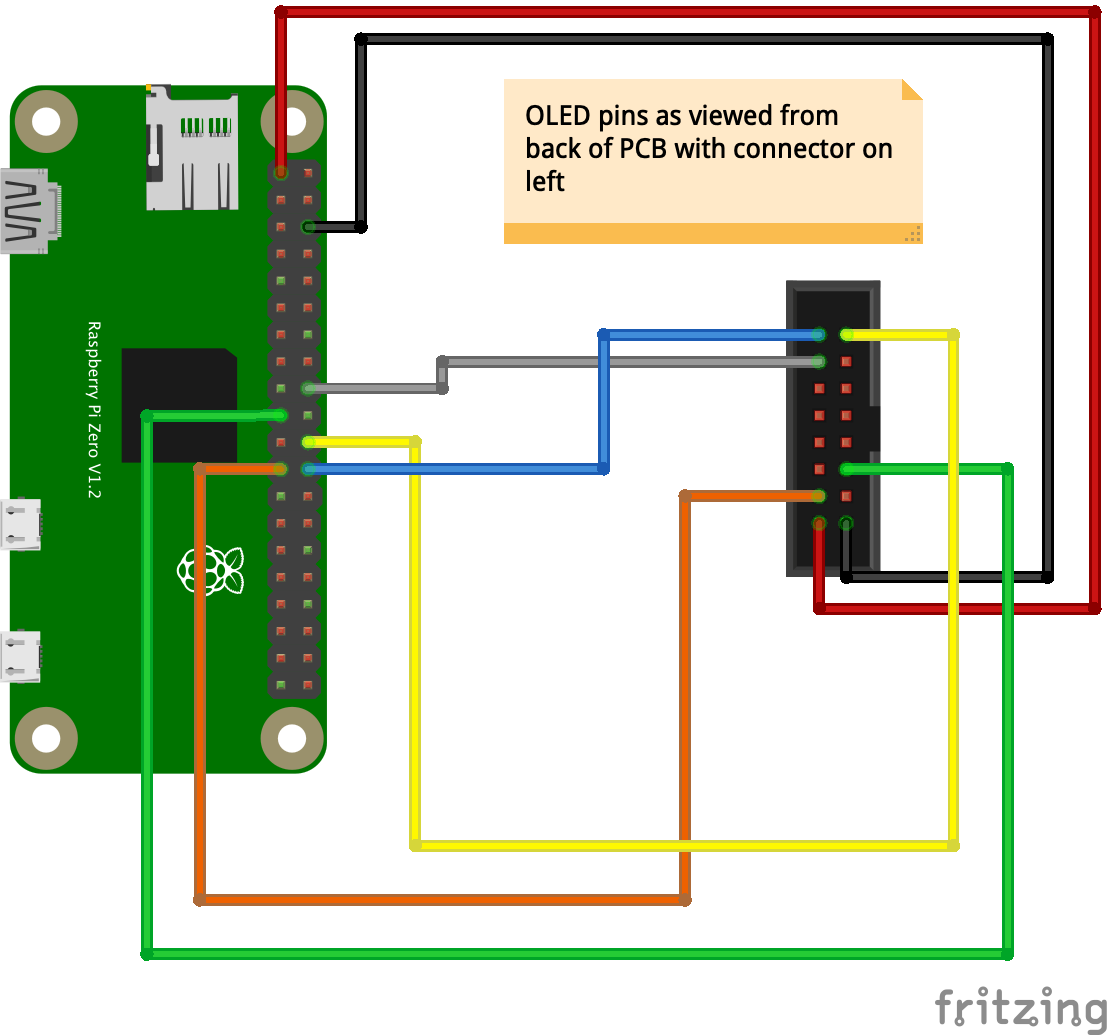
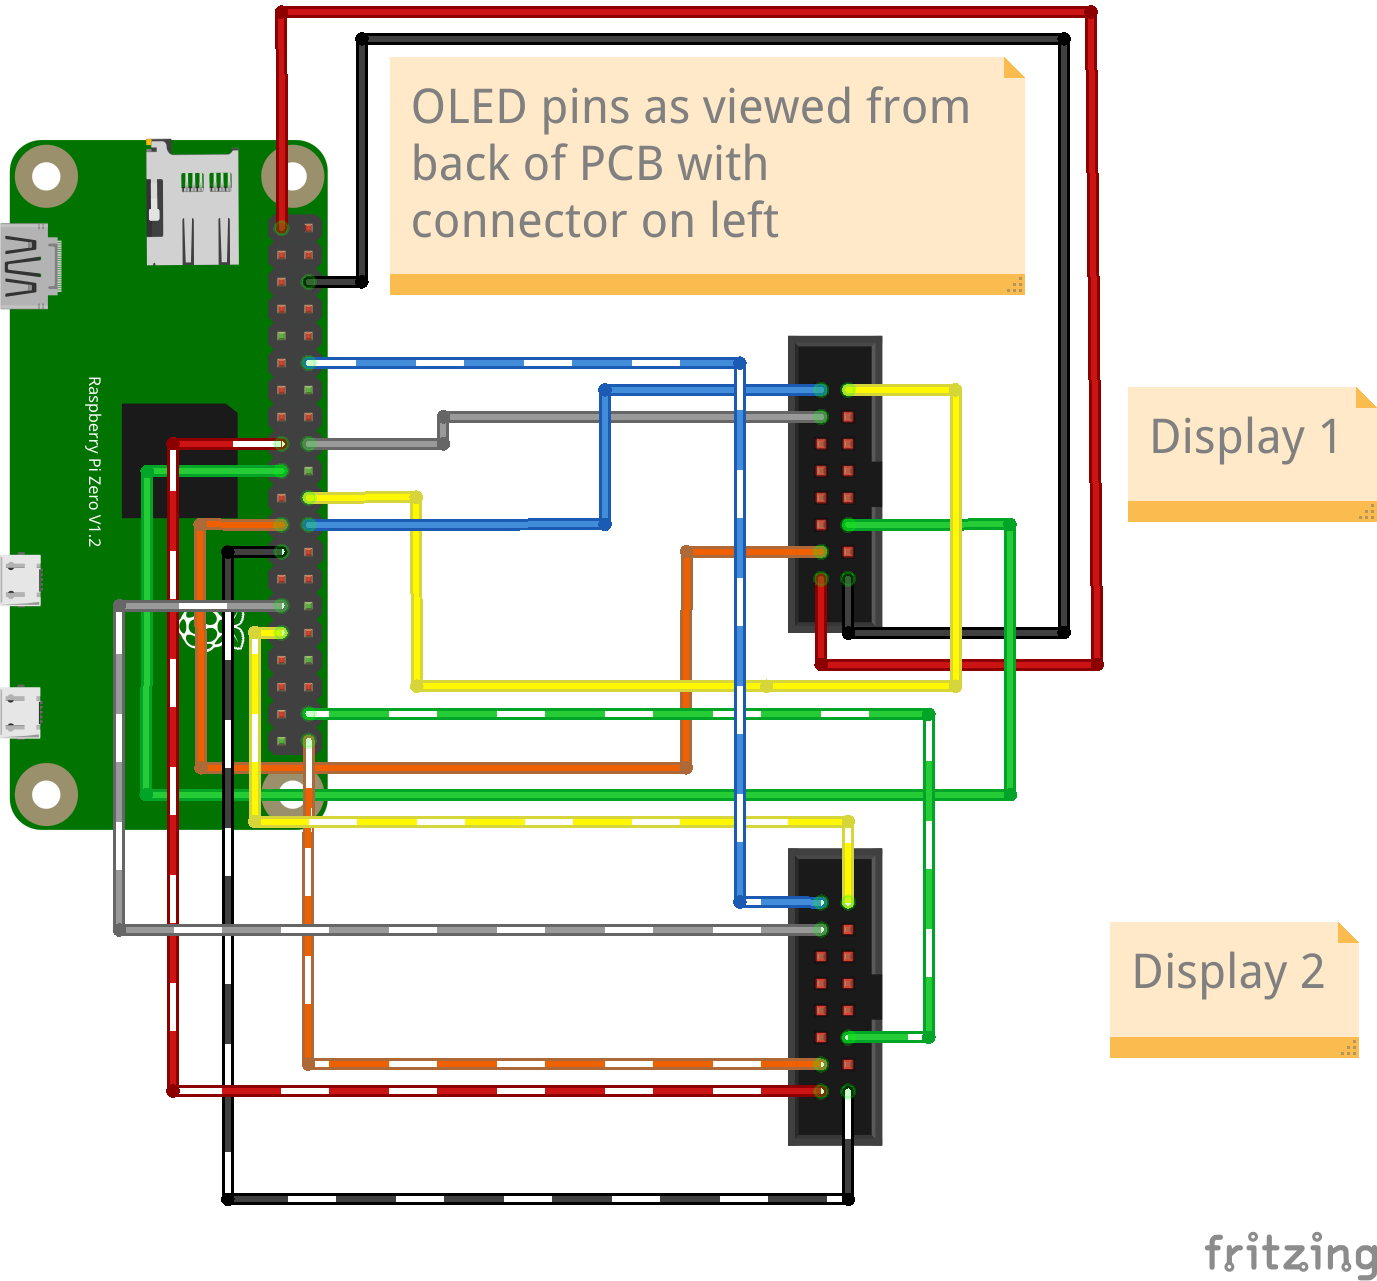
Add option for multi screen support
Previously there was only support for a single screen. As I live at a
two platform station and the Pi supports a pair of SPI busses it makes
sense to enable the possibility of running a pair of screens,

diff --git a/src/main.py b/src/main.py
@@ -73,7 +73,7 @@ def renderPlatform(departure):
 
 
 def renderCallingAt(draw, width, height):
-    stations = "Calling at:"
+    stations = "Calling at: "
     draw.text((0, 0), text=stations, font=font, fill="yellow")
 
 
@@ -150,13 +150,18 @@ def renderDots(draw, width, height):
     draw.text((0, 0), text=text, font=fontBold, fill="yellow")
 
 
-def loadData(apiConfig, journeyConfig):
+def loadData(apiConfig, journeyConfig, config):
     runHours = [int(x) for x in apiConfig['operatingHours'].split('-')]
     if isRun(runHours[0], runHours[1]) == False:
         return False, False, journeyConfig['outOfHoursName']
 
+    if config['dualScreen'] == True:
+        rows = "6"
+    else:
+        rows = "3"
+
     departures, stationName = loadDeparturesForStation(
-        journeyConfig, apiConfig["apiKey"])
+        journeyConfig, apiConfig["apiKey"], rows)
 
     if (departures == None):
         return False, False, stationName
@@ -217,6 +222,23 @@ def drawBlankSignage(device, width, height, departureStation):
 
     return virtualViewport
 
+def platform_filter(departureData, platformNumber, nextStations, station):
+    platformDepartures = []
+    for sub in departureData:
+        if platformNumber == "":
+            platformDepartures.append(sub)
+        elif sub.get('platform') is not None:
+            if sub['platform'] == platformNumber:
+                res = sub
+                platformDepartures.append(res)
+
+    if (len(platformDepartures) > 0):
+        firstDepartureDestinations = platformDepartures[0]["calling_at_list"]
+        platformData = platformDepartures, firstDepartureDestinations, station
+    else:
+        platformData = platformDepartures, "", station
+
+    return platformData
 
 def drawSignage(device, width, height, data):
     global stationRenderCount, pauseCount
@@ -224,7 +246,7 @@ def drawSignage(device, width, height, data):
     virtualViewport = viewport(device, width=width, height=height)
 
     status = "Exp 00:00"
-    callingAt = "Calling at:"
+    callingAt = "Calling at: "
 
     departures, firstDepartureDestinations, departureStation = data
 
@@ -238,6 +260,10 @@ def drawSignage(device, width, height, data):
     with canvas(device) as draw:
         w, h = draw.textsize(status, font)
         pw, ph = draw.textsize("Plat 88", font)
+
+    if(len(departures) == 0):
+        noTrains = drawBlankSignage(device, width=width, height=height, departureStation=departureStation)
+        return noTrains
 
     rowOneA = snapshot(
         width - w - pw - 5, 10, renderDestination(departures[0], fontBold), interval=config["refreshTime"])
@@ -298,8 +324,11 @@ try:
     print('Starting Train Departure Display v' + version_file.read())
     config = loadConfig()
 
-    serial = spi()
+    serial = spi(port=0)
     device = ssd1322(serial, mode="1", rotate=config['screenRotation'])
+    if config['dualScreen'] == True:
+        serial1 = spi(port=1,gpio_DC=5, gpio_RST=6)
+        device1 = ssd1322(serial1, mode="1", rotate=config['screenRotation'])
     font = makeFont("Dot Matrix Regular.ttf", 10)
     fontBold = makeFont("Dot Matrix Bold.ttf", 10)
     fontBoldTall = makeFont("Dot Matrix Bold Tall.ttf", 10)
@@ -317,6 +346,9 @@ try:
     # display NRE attribution while data loads
     virtual = drawStartup(device, width=widgetWidth, height=widgetHeight)
     virtual.refresh()
+    if config['dualScreen'] == True:
+        virtual = drawStartup(device1, width=widgetWidth, height=widgetHeight)
+        virtual.refresh()
     time.sleep(5)
 
     timeAtStart = time.time()-config["refreshTime"]
@@ -328,23 +360,37 @@ try:
         with regulator:
             if isRun(blankHours[0], blankHours[1]) == True:
                 device.clear()
+                if config['dualScreen'] == True:
+                    device1.clear()
                 time.sleep(10)
             else:
                 if(timeNow - timeAtStart >= config["refreshTime"]):
 
                     print('Effective FPS: ' + str(round(regulator.effective_FPS(),2)))
-                    data = loadData(config["api"], config["journey"])
+                    data = loadData(config["api"], config["journey"], config)
                     if data[0] == False:
                         virtual = drawBlankSignage(
                             device, width=widgetWidth, height=widgetHeight, departureStation=data[2])
+                        if config['dualScreen'] == True:
+                            virtual1 = drawBlankSignage(
+                                device1, width=widgetWidth, height=widgetHeight, departureStation=data[2])
                     else:
-                        virtual = drawSignage(device, width=widgetWidth,
-                                                height=widgetHeight, data=data)
+                        departureData = data[0]
+                        nextStations = data[1]
+                        station = data[2]
+                        screenData = platform_filter(departureData, config["journey"]["screen1Platform"], nextStations, station)
+                        virtual = drawSignage(device, width=widgetWidth,height=widgetHeight, data=screenData)
+                        
+                        if config['dualScreen'] == True:
+                            screen1Data = platform_filter(departureData, config["journey"]["screen2Platform"], nextStations, station)
+                            virtual1 = drawSignage(device1, width=widgetWidth,height=widgetHeight, data=screen1Data)
 
                     timeAtStart = time.time()
 
                 timeNow = time.time()
                 virtual.refresh()
+                if config['dualScreen'] == True:
+                    virtual1.refresh()
 
 except KeyboardInterrupt:
     pass

diff --git a/src/config.py b/src/config.py
@@ -9,15 +9,18 @@ def loadConfig():
     data["refreshTime"] = int(os.getenv("refreshTime") or 180)
     data["screenRotation"] = int(os.getenv("screenRotation") or 2)
     data["screenBlankHours"] = os.getenv("screenBlankHours") or "1-6"
+    data["dualScreen"] = bool(os.getenv("dualScreen") or False)
 
     data["journey"]["departureStation"] = os.getenv("departureStation") or "PAD"
     data["journey"]["destinationStation"] = os.getenv("destinationStation") or ""
     data["journey"]["outOfHoursName"] = os.getenv("outOfHoursName") or "London Paddington"
-    data["journey"]["departurePlatform"] = os.getenv("departurePlatform") or None
     data["journey"]["stationAbbr"] = { "International": "Intl." }
     data["journey"]['timeOffset'] = os.getenv("timeOffset") or "0"
+    data["journey"]["screen1Platform"] = os.getenv("screen1Platform") or ""
+    data["journey"]["screen2Platform"] = os.getenv("screen2Platform") or ""
 
     data["api"]["apiKey"] = os.getenv("apiKey") or None
     data["api"]["operatingHours"] = os.getenv("operatingHours") or "8-22"
 
     return data
+    

diff --git a/src/trains.py b/src/trains.py
@@ -136,7 +136,7 @@ def ProcessDepartures(APIOut):
 
     return Departures, departureStationName
 
-def loadDeparturesForStation(journeyConfig, apiKey):
+def loadDeparturesForStation(journeyConfig, apiKey, rows):
     if journeyConfig["departureStation"] == "":
         raise ValueError(
             "Please configure the departureStation environment variable")
@@ -152,7 +152,7 @@ def loadDeparturesForStation(journeyConfig, apiKey):
         </x:Header>
         <x:Body>
             <ldb:GetDepBoardWithDetailsRequest>
-                <ldb:numRows>3</ldb:numRows>
+                <ldb:numRows>""" + rows + """</ldb:numRows>
                 <ldb:crs>""" + journeyConfig["departureStation"] + """</ldb:crs>
                 <ldb:timeOffset>""" + journeyConfig["timeOffset"] + """</ldb:timeOffset>
                 <ldb:filterCrs>""" + journeyConfig["destinationStation"] + """</ldb:filterCrs>

diff --git a/README.md b/README.md
@@ -3,7 +3,7 @@
 ![](assets/blog-header.jpg)
 ![](assets/desk-setup.jpg)
 
-A set of python scripts to display replica near real-time UK railway station departure data on SSD1322-based 256x64 SPI OLED screens. Uses the publicly available [OpenLDBWS API by National Rail Enquiries](https://www.nationalrail.co.uk/). This project has been developed and simplified based on the work of [others](#credits) to run on the [balenaCloud](https://balena.io/cloud) platform.
+A set of python scripts to display replica near real-time UK railway station departure data on one or two SSD1322-based 256x64 SPI OLED screens. Uses the publicly available [OpenLDBWS API by National Rail Enquiries](https://www.nationalrail.co.uk/). This project has been developed and simplified based on the work of [others](#credits) to run on the [balenaCloud](https://balena.io/cloud) platform.
 
    * [Installation](#installation)
    * [Configuration](#configuration)
@@ -43,6 +43,18 @@ These environment variables are specified using the [balenaCloud dashboard](http
 |`operatingHours` | `8-22` (hours during which the data will refresh at the interval above)
 |`screenBlankHours` | `1-6` (hours during which the screen will be blank and data will not refresh)
 | `outOfHoursName` | `London Paddington` (name shown when current time is outside the `operatingHours`)
+| `dualScreen` | `True` (if you are using two displays)
+| `screenPlatform1` | `1` (sets the platform you want to have displayed on the first display)
+| `screenPlatform2` | `2` (sets the platform you want to have displayed on the second display)
+
+
+If using multi screen the following line needs to be added into /boot/config.txt
+
+```
+dtoverlay=spi1-3cs
+```
+
+This can be achieved by using the [Advanced boot settings](https://www.balena.io/docs/reference/OS/advanced/) specified from the device configuration screen in the balenaCloud dashboard.
 
 ## Hardware
 
@@ -59,6 +71,16 @@ The connections for one of these displays to the Raspberry Pi GPIO header are as
 | 14 | `DC` (data/command select) | 18 (`BCM24`) |
 | 15 | `RST` (reset) | 22 (`BCM25`) |
 | 16 | `CS` (chip select) | 24 (`BCM8 CE0`)
+
+| Second Display | Connection | Raspberry Pi
+|---|---|---
+| 1 | Ground | 25 (Ground) |
+| 2 | V+ (3.3V) | 17 (3v3 Power) |
+| 4 | `D0/SCLK` | 40 (`BCM21 SCLK`) |
+| 5 | `D1/SDIN` | 38 (`BCM20 MOSI`) |
+| 14 | `DC` (data/command select) | 29 (`BCM5`) |
+| 15 | `RST` (reset) | 31 (`BCM6`) |
+| 16 | `CS` (chip select) | 12 (`BCM18 CE0`)
 
 ![](assets/pi-display-connections_bb.png)
 

diff --git a/CHANGELOG.md b/CHANGELOG.md
@@ -4,6 +4,11 @@ All notable changes to this project will be documented in this file
 automatically by Versionist. DO NOT EDIT THIS FILE MANUALLY!
 This project adheres to [Semantic Versioning](http://semver.org/).
 
+# v0.2.0
+## (2021-12-09)
+
+* Enable dual display output [Lee Porte]
+
 # v0.1.3
 ## (2021-12-09)
 
